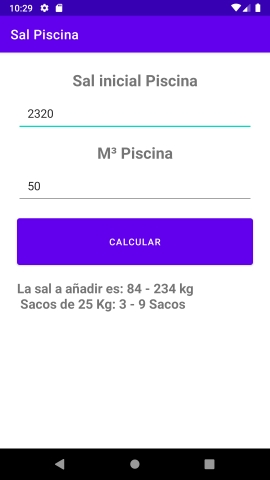
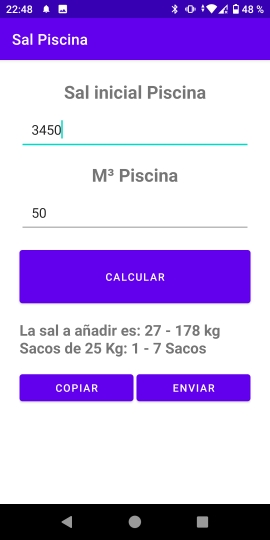
add menu and help

diff --git a/app/src/main/java/es/tecfer/salpiscina/MainActivity.java b/app/src/main/java/es/tecfer/salpiscina/MainActivity.java
@@ -1,19 +1,24 @@
 package es.tecfer.salpiscina;
 
-import static es.tecfer.salpiscina.R.id.b_calculate;
+
 
 import android.os.Bundle;
+import android.view.Menu;
+import android.view.MenuItem;
 import android.view.View;
 import android.view.inputmethod.InputMethodManager;
 import android.widget.Button;
 import android.widget.EditText;
 import android.widget.TextView;
+
+import androidx.annotation.NonNull;
 import androidx.appcompat.app.AppCompatActivity;
 import android.content.ClipData;
 import android.content.ClipboardManager;
 import android.content.Context;
 import android.content.Intent;
 import android.widget.Toast;
+import androidx.appcompat.widget.Toolbar;
 
 
 public class MainActivity extends AppCompatActivity {
@@ -29,6 +34,9 @@ public class MainActivity extends AppCompatActivity {
     protected void onCreate(Bundle savedInstanceState) {
         super.onCreate(savedInstanceState);
         setContentView(R.layout.activity_main);
+
+        Toolbar toolbar = findViewById(R.id.toolbar);
+        setSupportActionBar(toolbar);
 
         ppmInput = findViewById(R.id.ppm_input);
         metrosCuadradosInput = findViewById(R.id.metros_cuadrados_input);
@@ -52,6 +60,33 @@ public class MainActivity extends AppCompatActivity {
             @Override
             public void onClick(View v) { send_whatsapp(); }
         });
+    }
+    @Override
+    public boolean onCreateOptionsMenu(Menu menu) {
+        getMenuInflater().inflate(R.menu.menu_main, menu);
+        return true;
+    }
+
+    @Override
+    public boolean onOptionsItemSelected(@NonNull MenuItem item) {
+        int id = item.getItemId();
+        if (id == R.id.calc) {
+            // Lógica para "Calcular"
+            Toast.makeText(this, getString(R.string.calc), Toast.LENGTH_SHORT).show();
+            calculateSal();
+            return true;
+        }else if (id == R.id.action_about) {
+            // Lógica para "Acerca de"
+            Toast.makeText(this, getString(R.string.about), Toast.LENGTH_SHORT).show();
+            return true;
+        } else if (id == R.id.action_help) {
+            // Lógica para "Ayuda"
+            Toast.makeText(this, getString(R.string.help), Toast.LENGTH_SHORT).show();
+            Intent intent = new Intent(this, HelpActivity.class);
+            startActivity(intent);
+            return true;
+        }
+        return super.onOptionsItemSelected(item);
     }
 
     private void calculateSal() {
@@ -84,7 +119,7 @@ public class MainActivity extends AppCompatActivity {
 
             resultTextView.setText(result);
         } catch (NumberFormatException e) {
-            resultTextView.setText("Error: Los valores ingresados no son válidos. Asegúrate de ingresar números.");
+            resultTextView.setText(getString(R.string.error_calc));
         }
     }
 

diff --git a/app/src/main/java/es/tecfer/salpiscina/HelpActivity.java b/app/src/main/java/es/tecfer/salpiscina/HelpActivity.java
@@ -1,0 +1,58 @@
+package es.tecfer.salpiscina;
+
+import android.content.Intent;
+import android.os.Bundle;
+
+import androidx.annotation.NonNull;
+import androidx.appcompat.app.AppCompatActivity;
+import androidx.appcompat.widget.Toolbar;
+
+import android.widget.TextView;
+import android.view.Menu;
+import android.view.MenuItem;
+import android.widget.Toast;
+
+
+public class HelpActivity extends AppCompatActivity {
+
+    @Override
+    protected void onCreate(Bundle savedInstanceState) {
+        super.onCreate(savedInstanceState);
+        setContentView(R.layout.activity_help);
+
+        Toolbar toolbar = findViewById(R.id.toolbar);
+        setSupportActionBar(toolbar);
+
+        TextView helpTextView = findViewById(R.id.help_textview);
+        helpTextView.setText(getString(R.string.help_text));
+    }
+
+    @Override
+    public boolean onCreateOptionsMenu(Menu menu) {
+        getMenuInflater().inflate(R.menu.menu_main, menu);
+        return true;
+    }
+
+    @Override
+    public boolean onOptionsItemSelected(@NonNull MenuItem item) {
+        int id = item.getItemId();
+        if (id == R.id.calc) {
+            // Lógica para "Calcular"
+            Toast.makeText(this, getString(R.string.calc), Toast.LENGTH_SHORT).show();
+            Intent intent = new Intent(this, MainActivity.class);
+            startActivity(intent);
+            return true;
+        } else if (id == R.id.action_about) {
+            // Lógica para "Acerca de"
+            Toast.makeText(this, getString(R.string.about), Toast.LENGTH_SHORT).show();
+            return true;
+        } else if (id == R.id.action_help) {
+            // Lógica para "Ayuda"
+            Toast.makeText(this, getString(R.string.help), Toast.LENGTH_SHORT).show();
+            Intent intent = new Intent(this, HelpActivity.class);
+            startActivity(intent);
+            return true;
+        }
+        return super.onOptionsItemSelected(item);
+    }
+}
